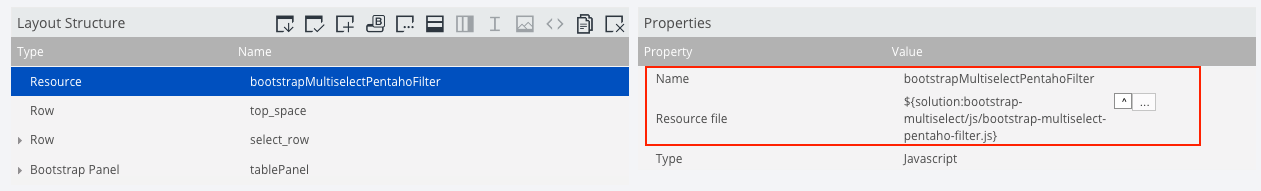
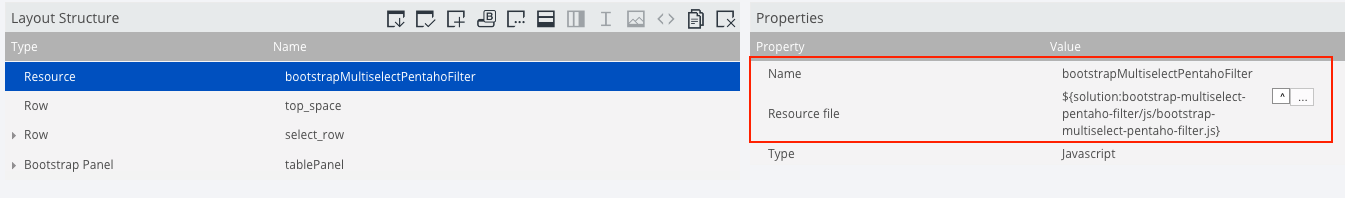
update paths

diff --git a/README.md b/README.md
@@ -14,7 +14,17 @@ Ps. For dashboards without RequireJS support enable should be usage the previous
 
 #### Inside repository (jackrabbit persistence)
 
-- Download the repository as a zip file and import to your instance, the following example is consider the path _public/bootstrap-multiselect-pentaho-filter_.
+- Download the repository as a zip, and rename the folder:
+
+  - From
+
+  bootstrap-multiselect-pentaho-filter-master
+
+  - to
+
+  bootstrap-multiselect-pentaho-filter
+
+- Compress the folder _bootstrap-multiselect-pentaho-filter_ in a zip file the folder and import to your instance, the following example is consider the path _public/bootstrap-multiselect-pentaho-filter_.
 - Inside your CDE dashboard insert the file _js/bootstrap-multiselect-pentaho-filter.js_ path as a "Javascript External File" resource:
 
 ```JavaScript
